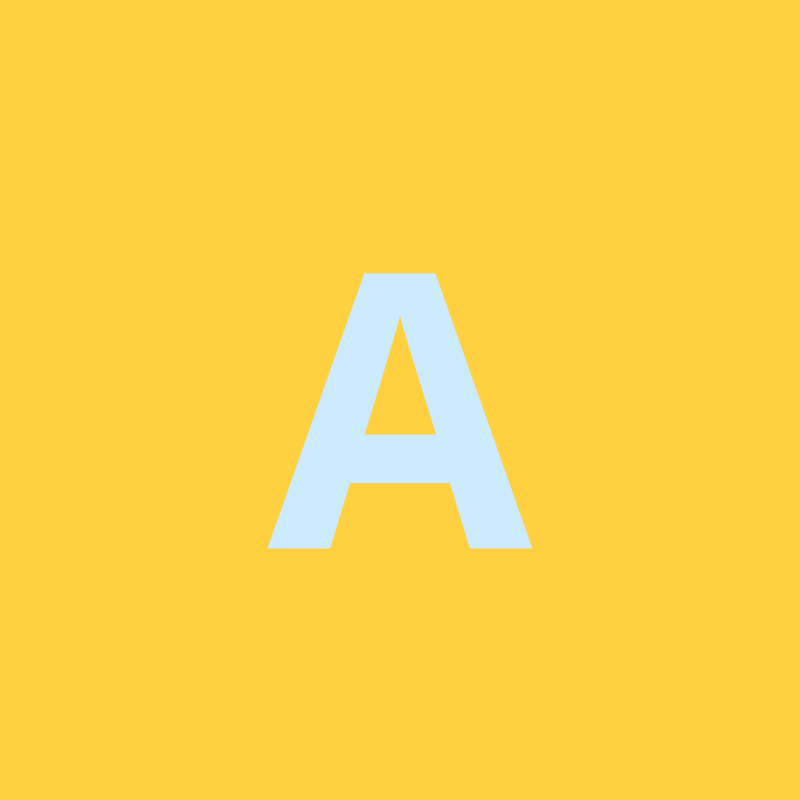
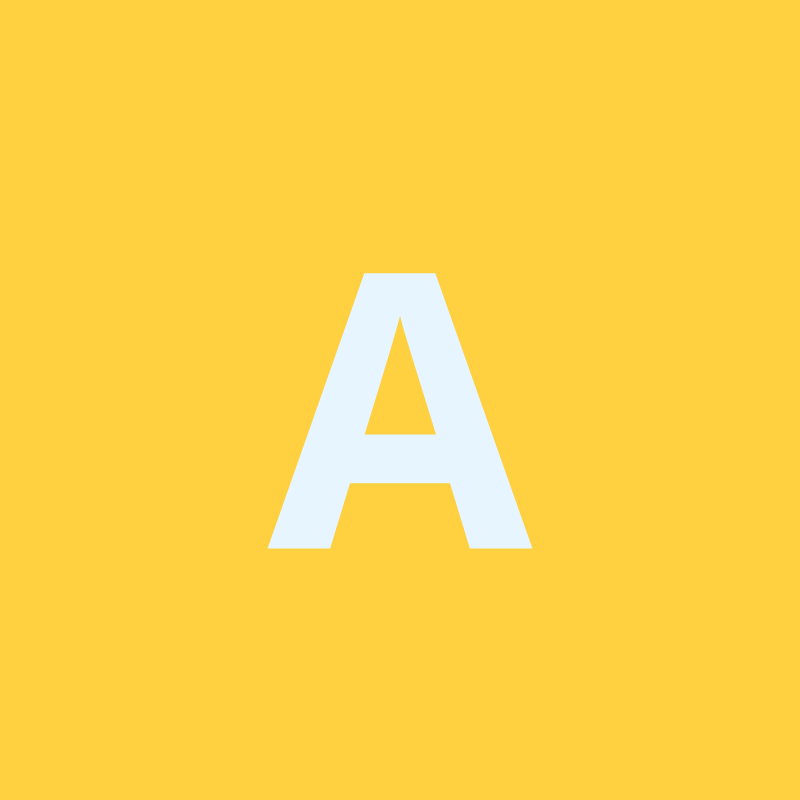
Replace all white assests and change the shade of white used on the site

Changed region(s): [[0.3125, 0.3438, 0.6875, 0.6875]]

diff --git a/dashboard/index.html b/dashboard/index.html
@@ -17,7 +17,7 @@
                 <p class="option"><img src="assets/messages.svg">Messages</p>
                 <p class="option"><img src="assets/history.svg">History</p>
                 <p class="option"><img src="assets/tasks.svg">Tasks</p>
-                <p class="option"><img src="assets/profile.svg">Communities</p>
+                <p class="option"><img src="assets/communities.svg">Communities</p>
             </div>
             <div class="options">
                 <p class="option"><img src="assets/settings.svg">Settings</p>

diff --git a/dashboard/style.css b/dashboard/style.css
@@ -6,7 +6,7 @@
 :root {
     --accent1: #ffd03f;
     --accent2: #7944ff;
-    --white: #ccebff;
+    --white: #e6f5ff;
     --black: #0d1216;
     --gray: #cad5e4;
 
@@ -26,10 +26,14 @@ body {
     padding: var(--padding);
     color: var(--white);
 }
+.sidebar h1.option {
+    font-size: 32px;
+}
 .sidebar .option {
     display: flex;
     align-items: center;
     gap: var(--padding);
+    font-size: 18px;
 }
 .options {
     margin-top: 50px;
